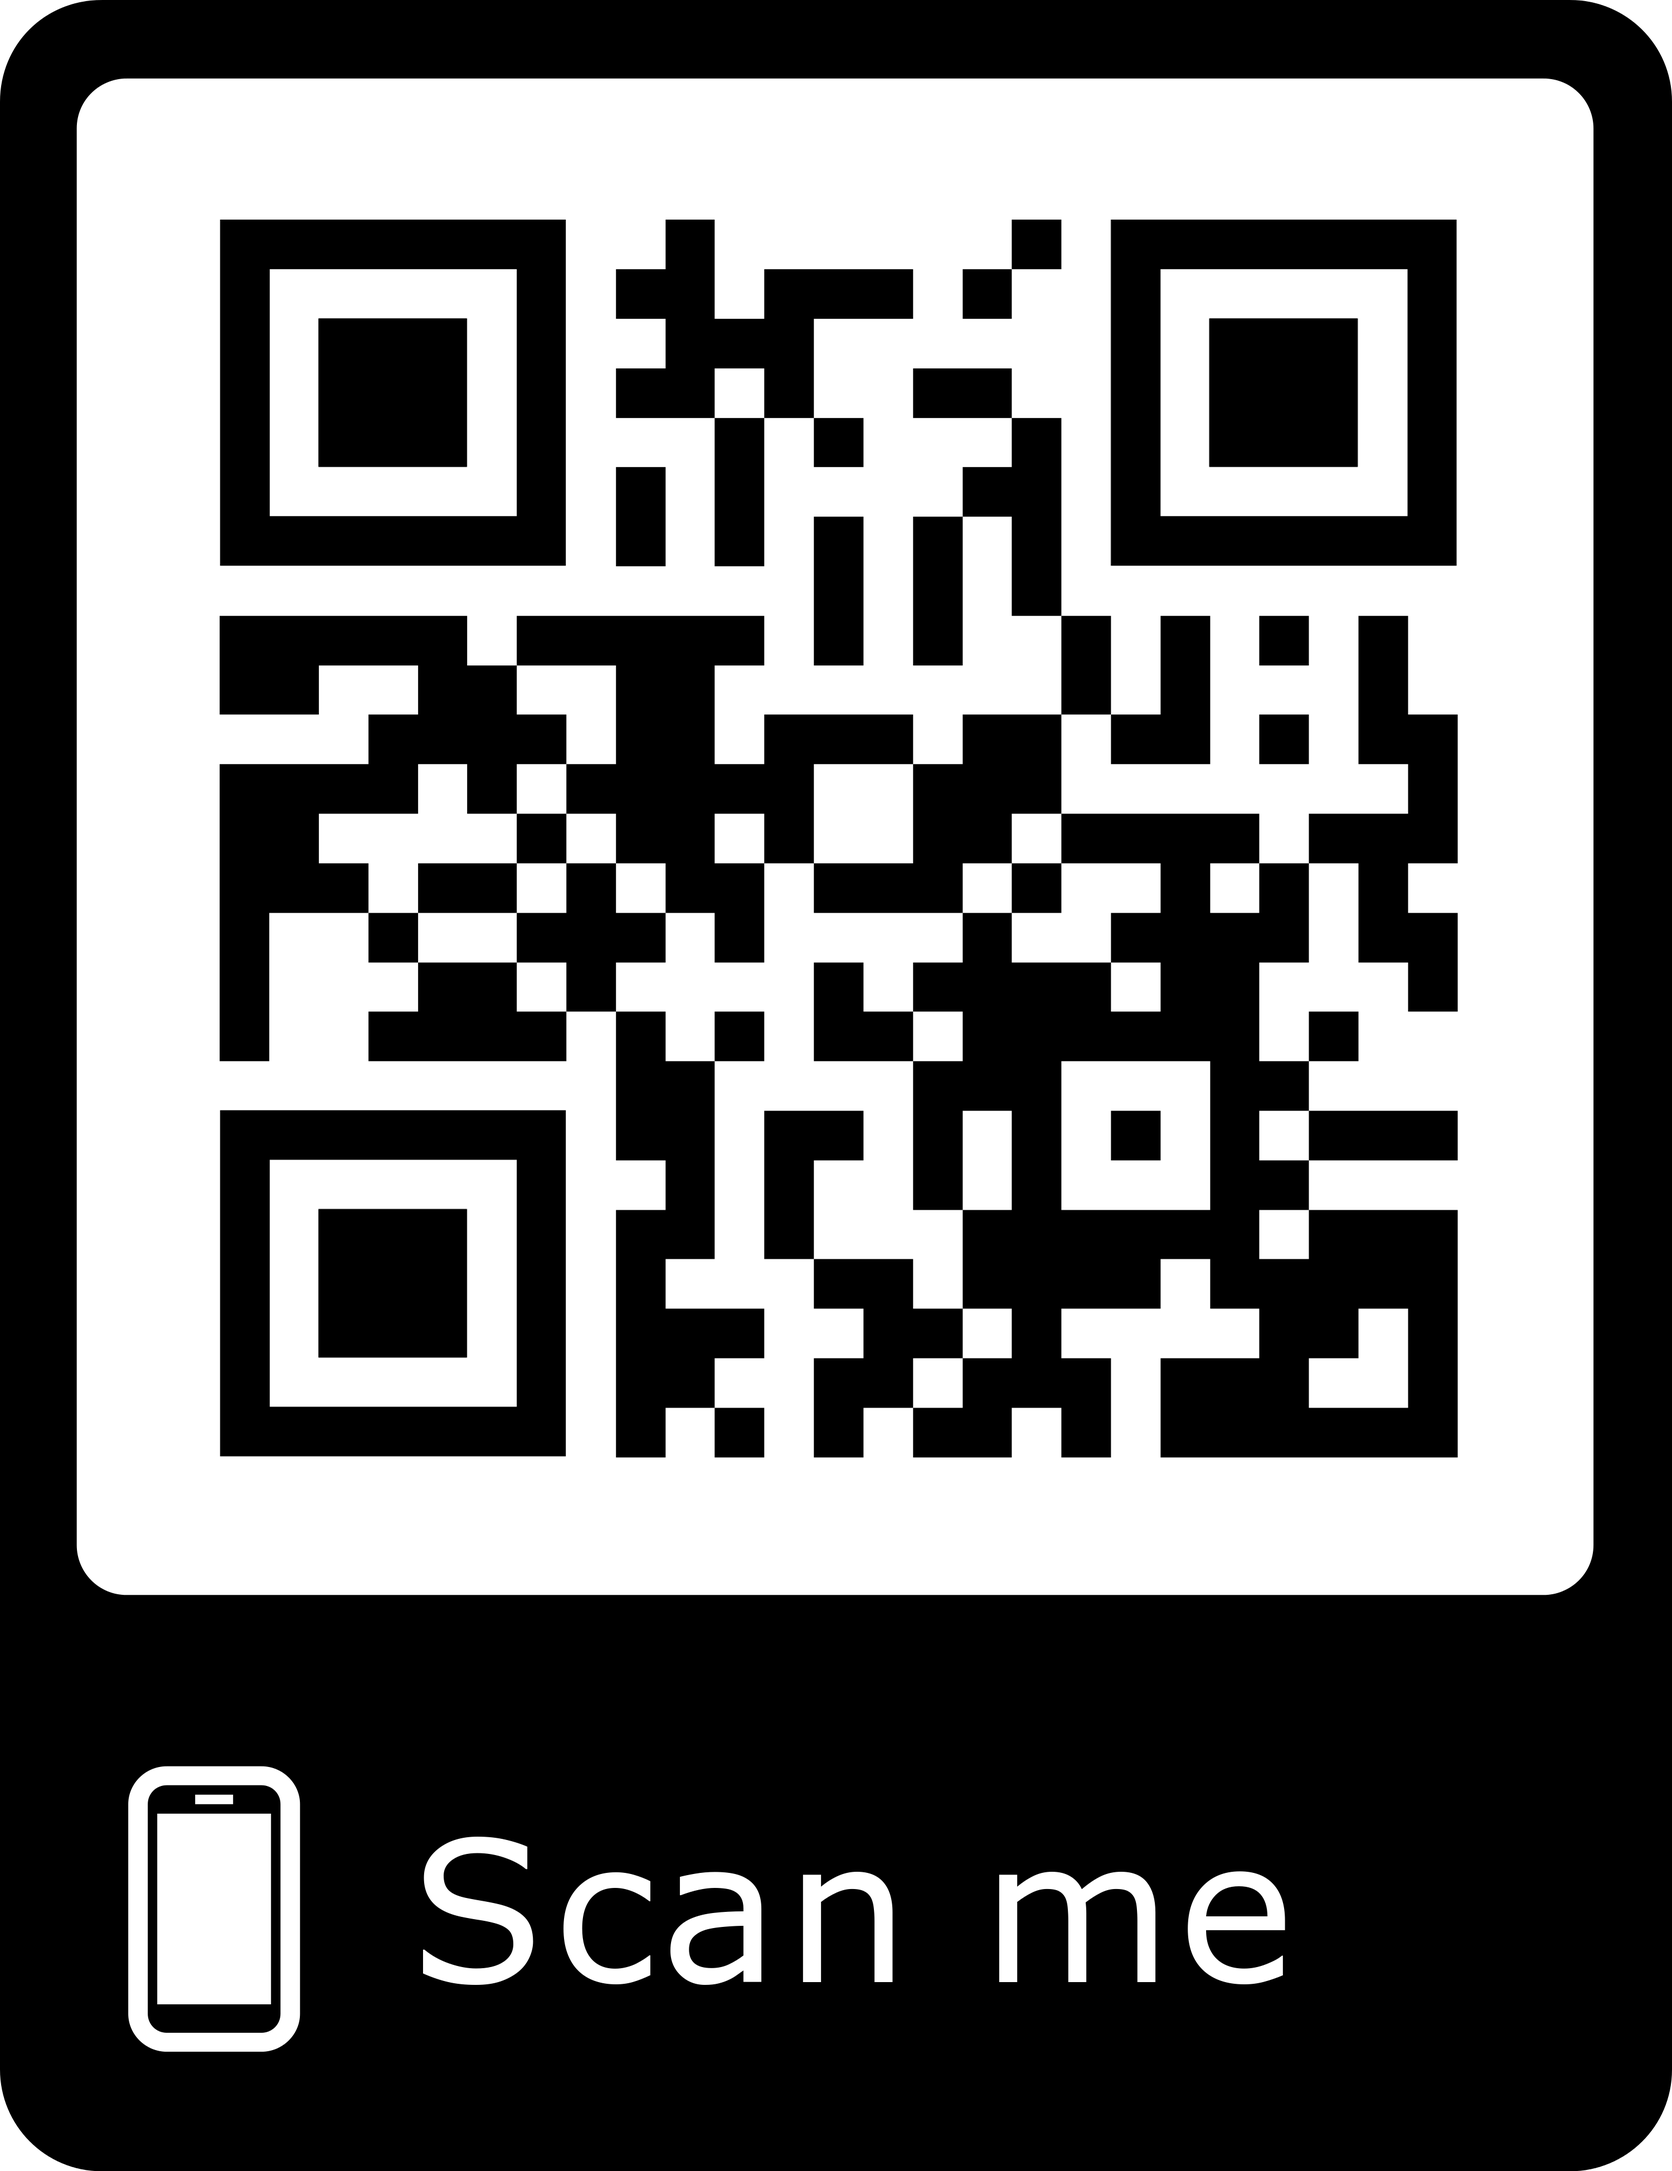
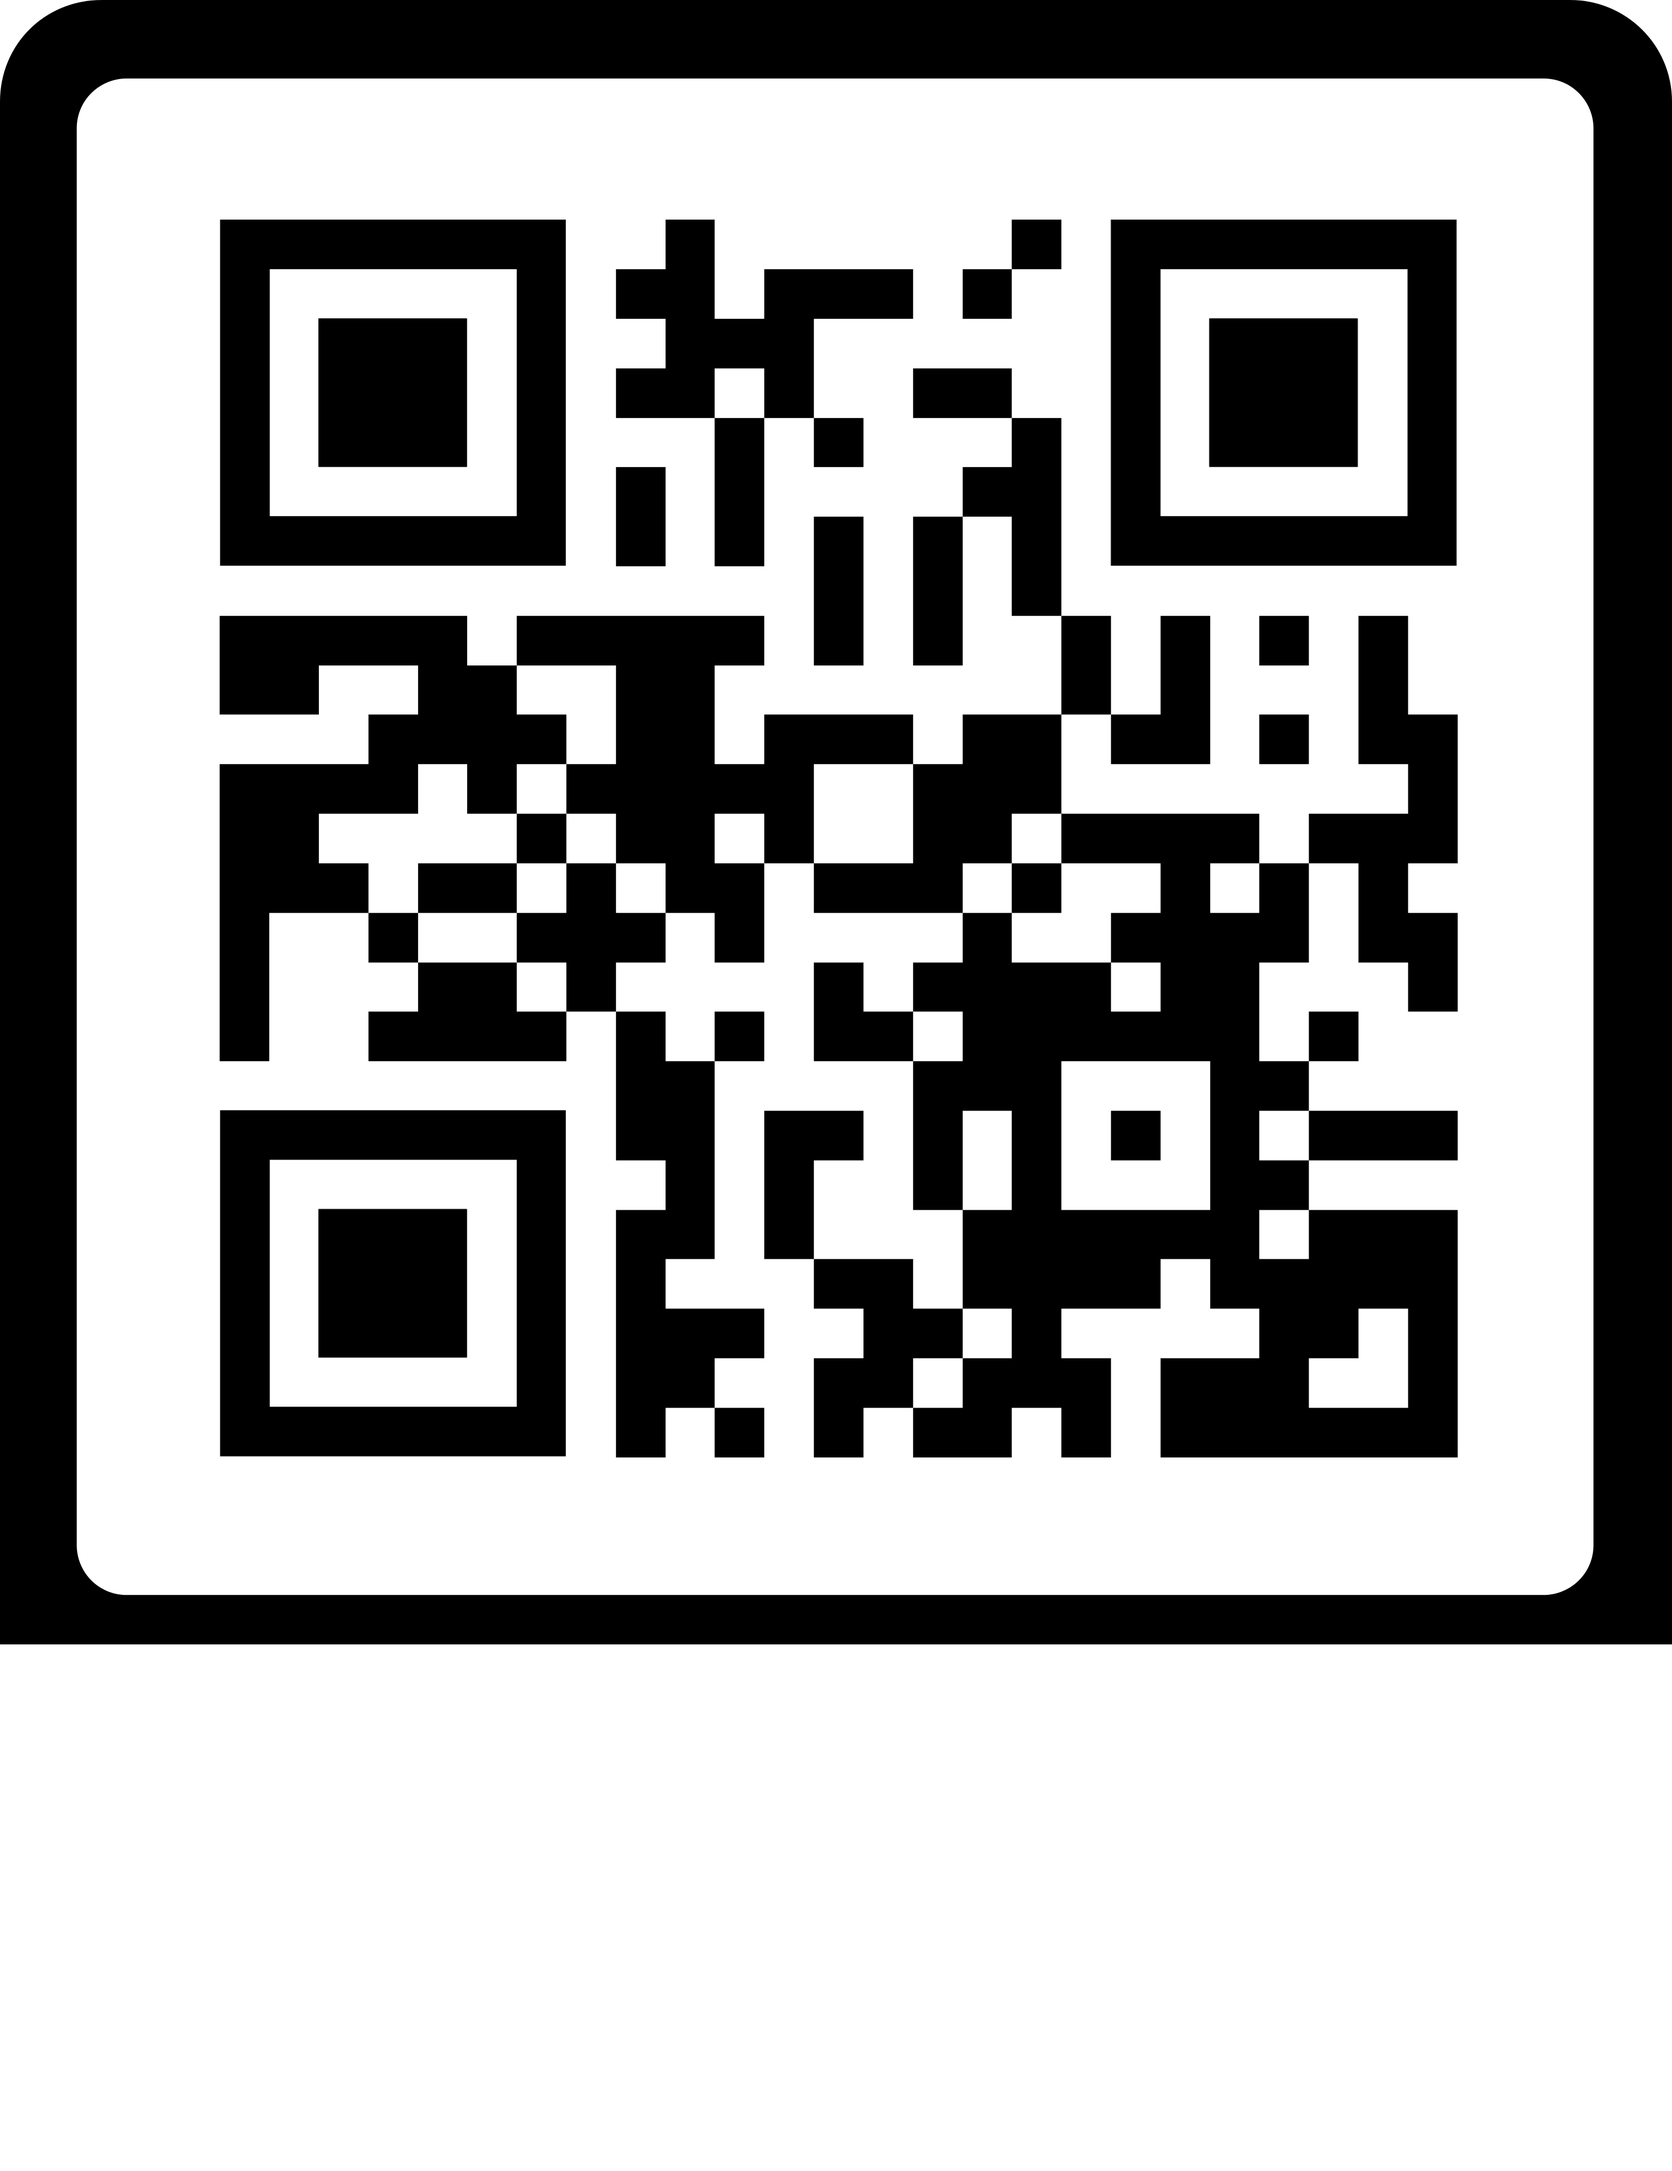
new
new

Changed region(s): [[0.0, 0.7454, 1.0, 1.0]]

diff --git a/final.html b/final.html
@@ -26,9 +26,16 @@ img + img { opacity: 0; }
 </head>
 
 <body bgcolor=black>
-<img src="qr.png"> </img>
-<h1> Games For </h1>
-	<div id = "slideshow">
+
+
+<img class="qr" src="qr.png"> </img>
+
+<img style="position: absolute; zoom:63%; top: 30%; left: 3.5%" src="title.png"> </img>
+
+<h3 style="position: absolute; color: white; font-family : sans-serif ;font-size: 20px; top: 90%; left:1%">www.etc.cmu.edu/projects/paradigm/ <h3>
+
+<div id = "slideshow">
+
   <!-- 
 <img src="http://www.fillmurray.com/400/300" alt="Fill Murray">
 <img src="http://www.placecage.com/400/300" alt="Place Cage">

diff --git a/css/style.css b/css/style.css
@@ -15,14 +15,16 @@ position: absolute;
 
 }
 
-img {
- zoom: 5%;
+.qr {
+ zoom: 4%;
   position: absolute;
-  top: 85%;
+  top: 80%;
   transition: opacity .5s ease-in;
 }
 
+/* 
 img + img { opacity: 0; }
+ */
 
 h2{
 
